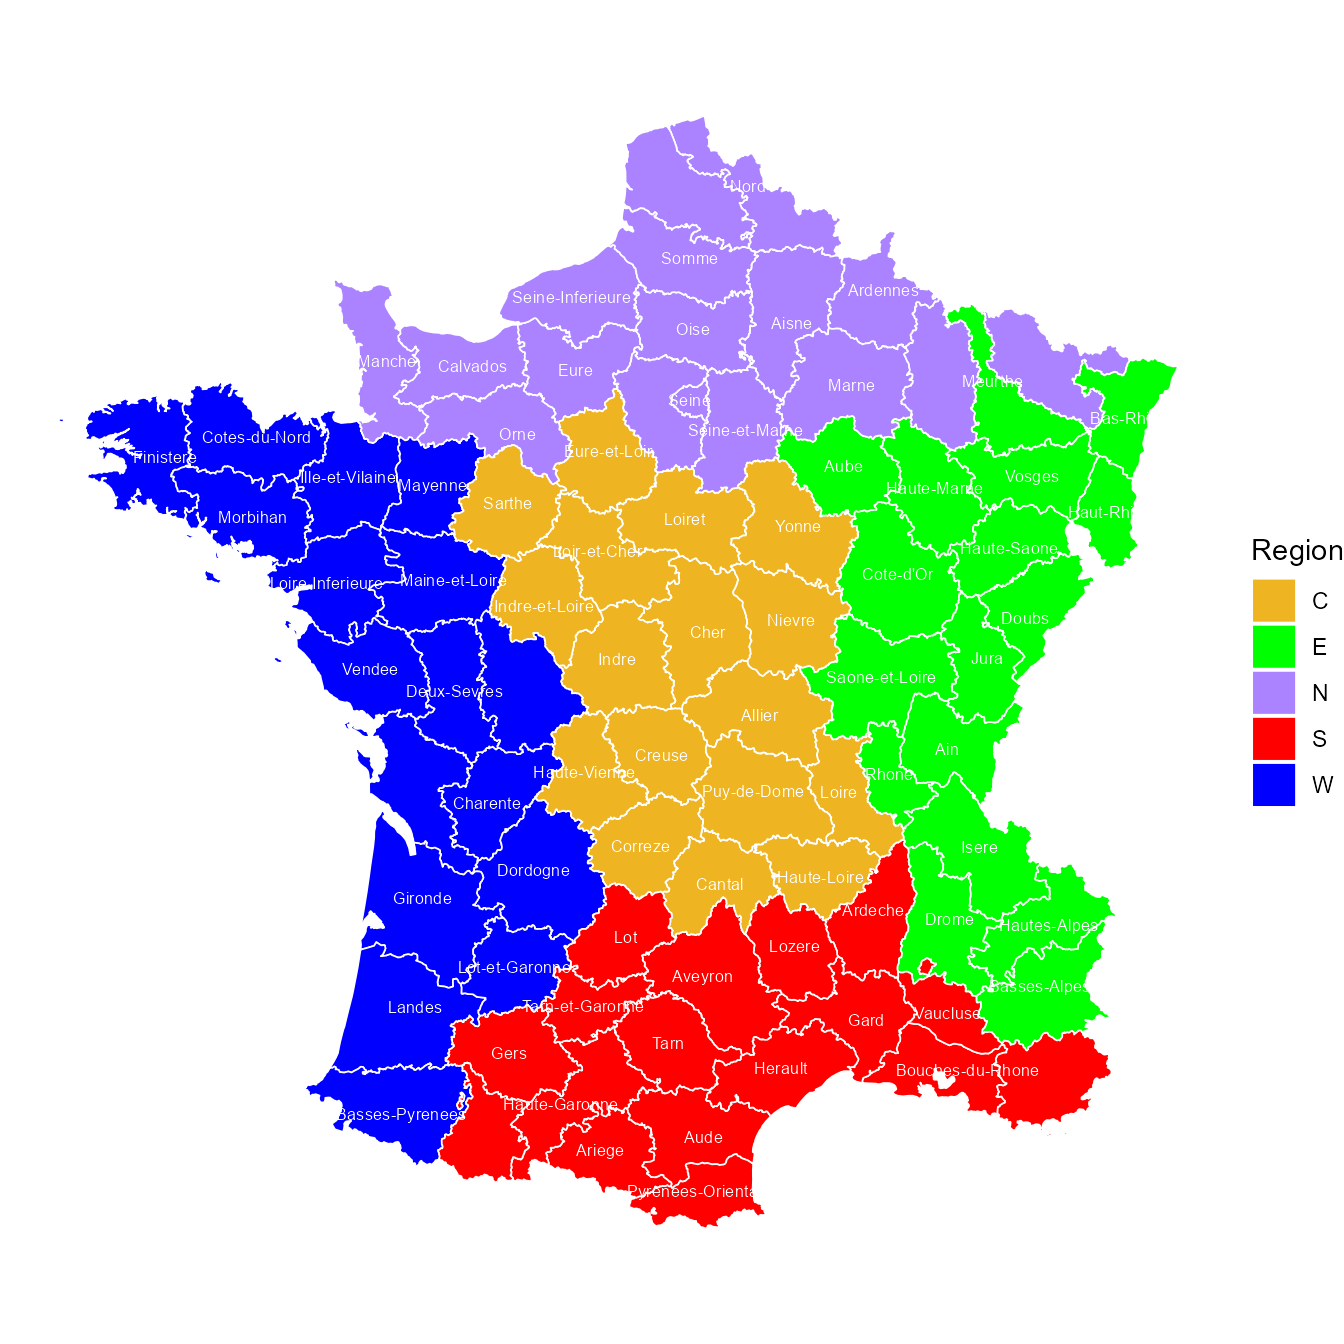
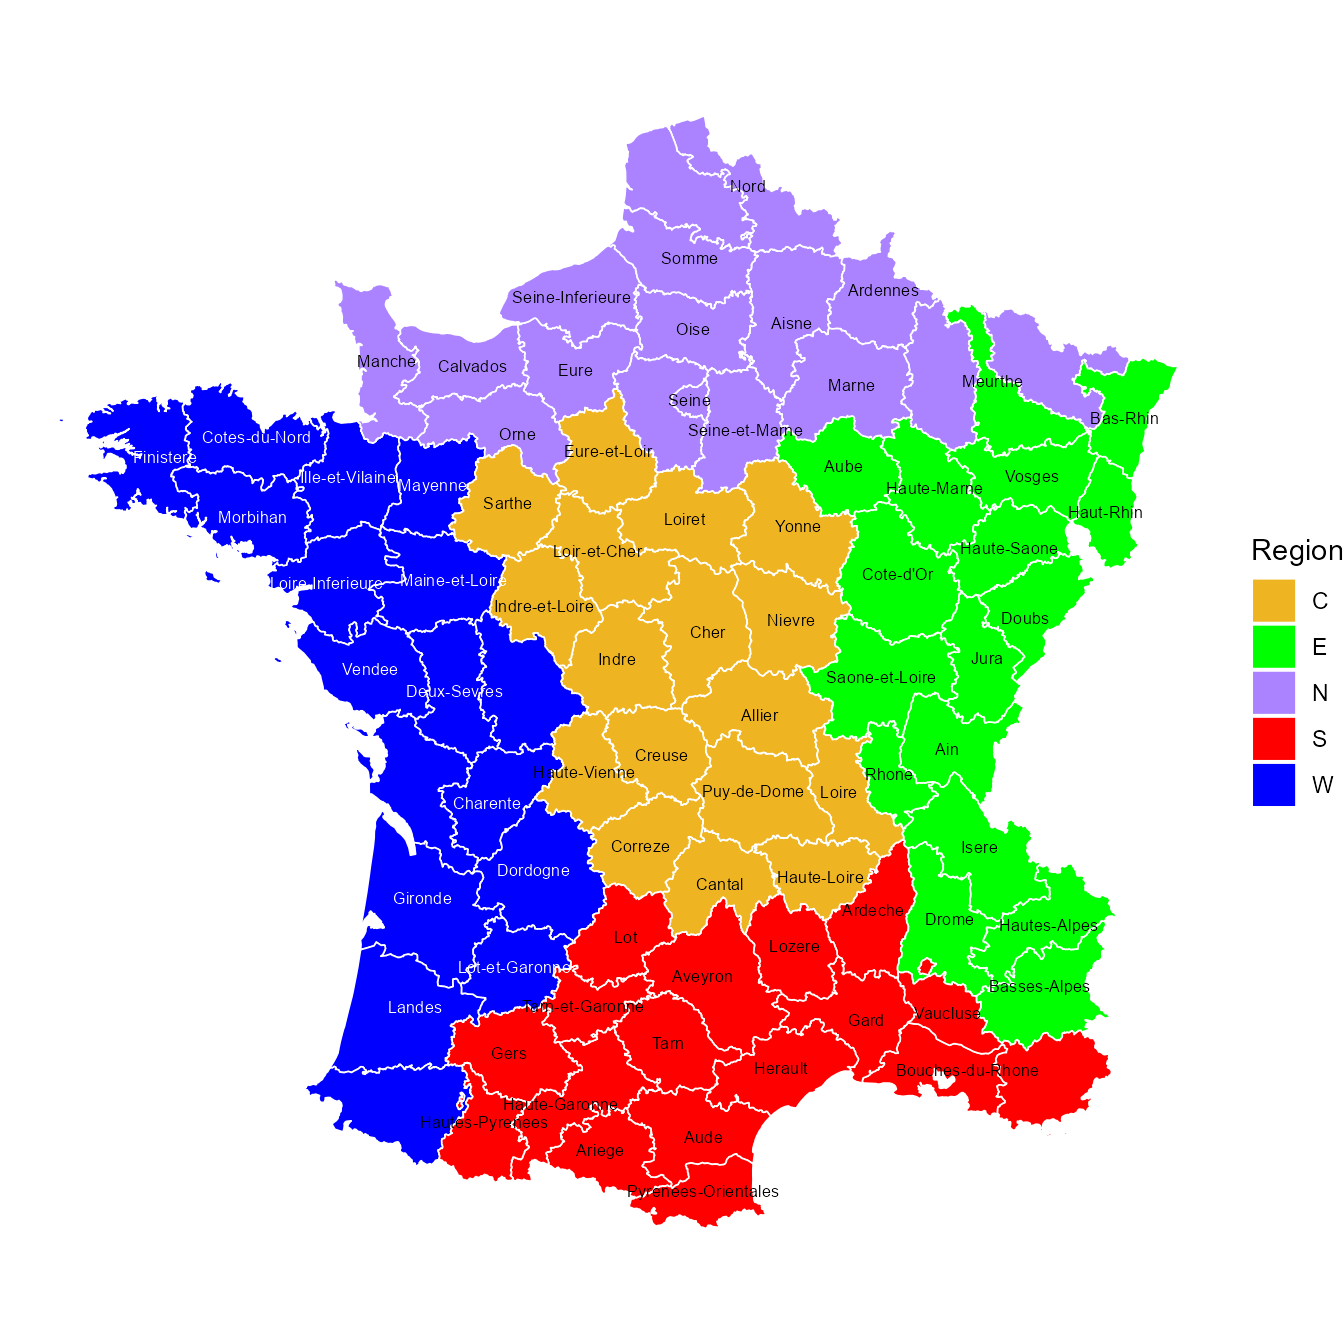
Only color W-region labels white in guerry-sf-maps Region map
Previous fix turned all department labels white, but only the W
region (dark blue) needed it for contrast. Map label color to
Region == "W" via scale_color_manual(guide = "none") instead, so C/E/N/S
keep black text and only W gets white.

Claude-Session: https://claude.ai/code/session_01SmrSpYPBvFXEEoMhueH4JC

diff --git a/docs/articles/guerry-sf-maps.html b/docs/articles/guerry-sf-maps.html
@@ -172,7 +172,9 @@ map in the README.</p>
 <span></span>
 <span><span class="fu"><a href="https://ggplot2.tidyverse.org/reference/ggplot.html" class="external-link">ggplot</a></span><span class="op">(</span><span class="va">gf_sf</span><span class="op">)</span> <span class="op">+</span></span>
 <span>  <span class="fu"><a href="https://ggplot2.tidyverse.org/reference/ggsf.html" class="external-link">geom_sf</a></span><span class="op">(</span><span class="fu"><a href="https://ggplot2.tidyverse.org/reference/aes.html" class="external-link">aes</a></span><span class="op">(</span>fill <span class="op">=</span> <span class="va">Region</span><span class="op">)</span>, color <span class="op">=</span> <span class="st">"white"</span>, linewidth <span class="op">=</span> <span class="fl">0.3</span><span class="op">)</span> <span class="op">+</span></span>
-<span>  <span class="fu"><a href="https://ggplot2.tidyverse.org/reference/ggsf.html" class="external-link">geom_sf_text</a></span><span class="op">(</span><span class="fu"><a href="https://ggplot2.tidyverse.org/reference/aes.html" class="external-link">aes</a></span><span class="op">(</span>label <span class="op">=</span> <span class="va">Department</span><span class="op">)</span>, size <span class="op">=</span> <span class="fl">2.2</span>, color <span class="op">=</span> <span class="st">"white"</span>, check_overlap <span class="op">=</span> <span class="cn">TRUE</span><span class="op">)</span> <span class="op">+</span></span>
+<span>  <span class="fu"><a href="https://ggplot2.tidyverse.org/reference/ggsf.html" class="external-link">geom_sf_text</a></span><span class="op">(</span><span class="fu"><a href="https://ggplot2.tidyverse.org/reference/aes.html" class="external-link">aes</a></span><span class="op">(</span>label <span class="op">=</span> <span class="va">Department</span>, color <span class="op">=</span> <span class="va">Region</span> <span class="op">==</span> <span class="st">"W"</span><span class="op">)</span>,</span>
+<span>               size <span class="op">=</span> <span class="fl">2.2</span>, check_overlap <span class="op">=</span> <span class="cn">TRUE</span><span class="op">)</span> <span class="op">+</span></span>
+<span>  <span class="fu"><a href="https://ggplot2.tidyverse.org/reference/scale_manual.html" class="external-link">scale_color_manual</a></span><span class="op">(</span>values <span class="op">=</span> <span class="fu"><a href="https://rdrr.io/r/base/c.html" class="external-link">c</a></span><span class="op">(</span>`FALSE` <span class="op">=</span> <span class="st">"black"</span>, `TRUE` <span class="op">=</span> <span class="st">"white"</span><span class="op">)</span>, guide <span class="op">=</span> <span class="st">"none"</span><span class="op">)</span> <span class="op">+</span></span>
 <span>  <span class="fu"><a href="https://ggplot2.tidyverse.org/reference/scale_manual.html" class="external-link">scale_fill_manual</a></span><span class="op">(</span>values <span class="op">=</span> <span class="va">col.region</span><span class="op">)</span> <span class="op">+</span></span>
 <span>  <span class="fu"><a href="https://ggplot2.tidyverse.org/reference/ggtheme.html" class="external-link">theme_void</a></span><span class="op">(</span><span class="op">)</span></span></code></pre></div>
 <p><img src="guerry-sf-maps_files/figure-html/sf-region-1.png" class="r-plt" alt="" width="672"></p>
